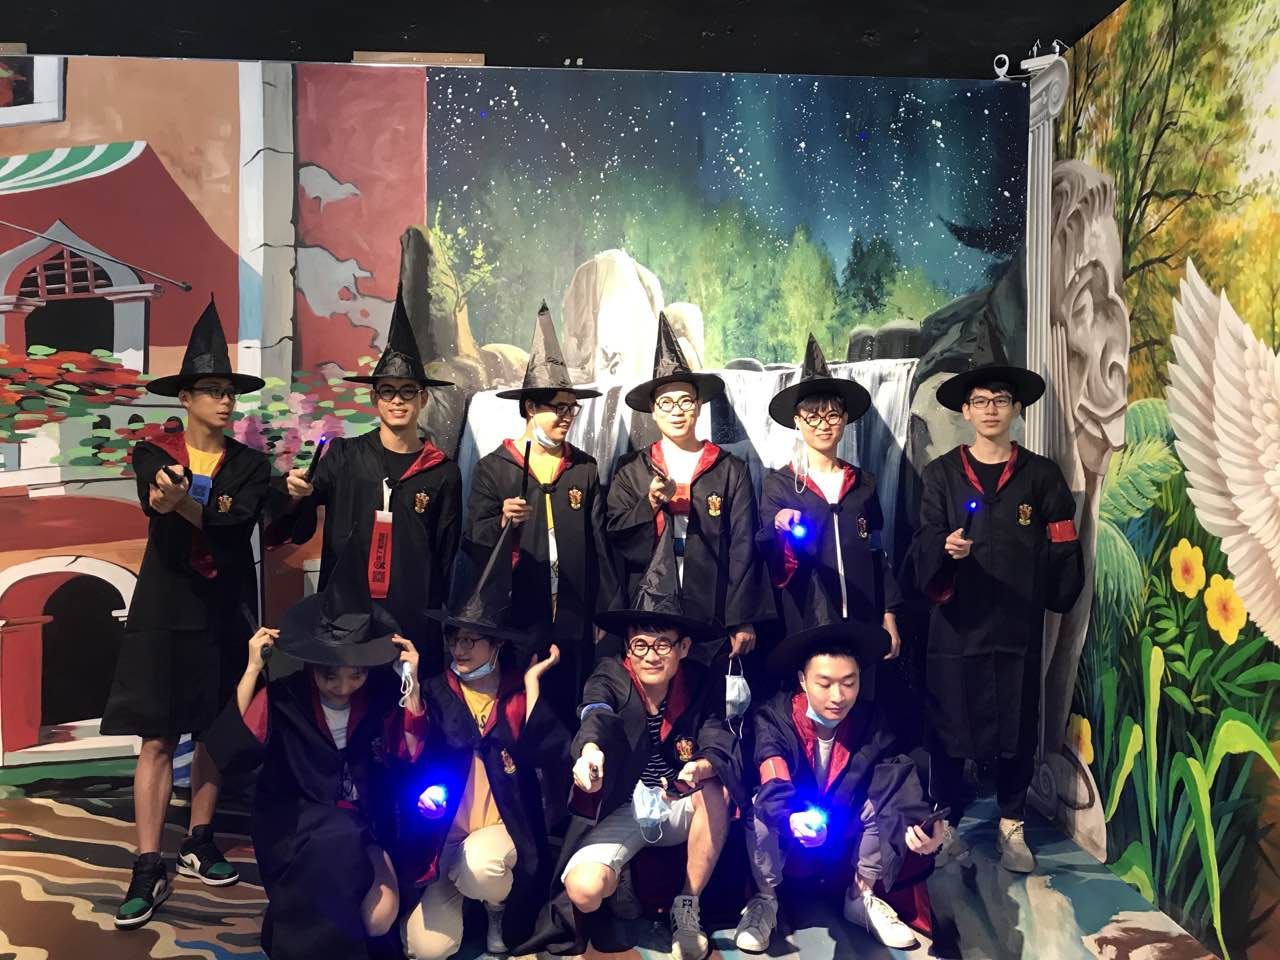
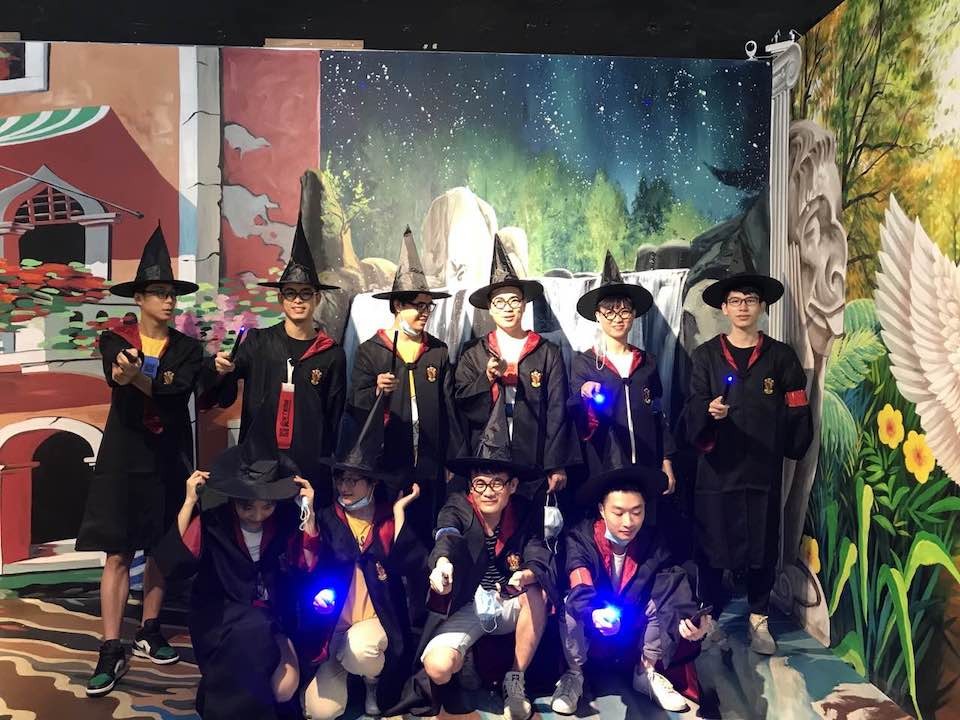
更新关于我们

diff --git a/docs/about.md b/docs/about.md
@@ -20,10 +20,96 @@ showAuthor: false
 
 ## 团队
 
-```
-我们是筷子前端团队
+### 我们的产品 -> 创意资产管理&决策优化平台
 
-```
+* [详细介绍筷子官网](https://superme.kuaizi.co/zh/pc/)
+
+### 现有产品介绍（基本上是PC端）
+
+#### 工具类产品
+
+* 图像在线编辑
+* 视频在线编辑
+* 落地页在线编辑
+
+> 需要技能不限于：单页性能优化、psd如何在线解析、canvas组件绘制、前端组件化、视频流相关知识、webassembly、FFmpeg等
+
+#### 平台对接类
+* 电商流量平台对接（如广点通、巨量、阿里妈妈三驾马车、京东等巨头平台）
+* 私域流量平台对接（抖音、微博等）
+* 其他开放平台对接（OPENAPI）
+
+> 需要技能不限于：前端并发处理、模板化开发、OPENAPI、广告知识
+
+#### 数据展示类
+* 创意数据展示
+* 内外用户数据
+* 创意标签管理
+
+> 需要技能不限于：前端数据监控埋点、复杂前端form组件、canvas数据可视化、数据加载性能
+
+
+### 团队规模
+#### 发展史
+2013年成立前端团队，2017年筷子前端团队规模在最多达到12人，后随着业务分拆，独立了子公司降到当前6个人左右的团队，今年我们在业界都在考虑生存问题的时候拿到了A+轮融资、同时我们也已经开始全新SaaS工具产品的设计和开发、预计接下来的团队规模扩大到10个人左右 急需各位江湖贤士加盟
+
+#### 团队规模
+> 当前规模
+
+p6(1) p5（1个）、p4(2)
+
+> 计划规模
+
+主要布局p7(1个)、p6（1个）、p5(2)、p4(4个)
+
+#### 前端 JD
+##### 工作职责
+• 准确理解产品需求、交互文档或原型，进行web产品前端开发。
+• 与产品团队充分沟通，快速理解、消化各方需求，并落实为具体的开发工作。
+• 负责制定 Web 开发规范，开发风格一致的 Web 模板和组件。 
+• 技术视野广阔，有主导前端技术方案设计的能力和经验，能够主导大型项目研发； 
+• 关注业界前端技术，对用户体验、交互操作流程有一定理解。
+职位要求
+• 计算机相关专业本科及以上学历， 3年及以上前端开发工作经验（优秀者不限）。 
+• 熟悉W3C标准，精通HTML5/CSS3。 
+• 熟悉JavaScript的核心技术，包括并不限于es6、ajax、dom、bom等。 
+• 熟悉常见页面布局方式，移动端响应式页面布局方式，熟悉css性能优化方式。 
+• 掌握面向对象编程思想，对表现与数据分离有深刻理解，熟练使用 React / Angular / Vue 中的至少一种。 
+• 熟悉Nodejs，能利用Nodejs开发工具，掌握常用的构建打包工具，如gulp、webpack、rollup等。 
+• 有前端性能优化经验，包括语言层面和架构层面； 
+• 熟练使用各种调试、抓包工具，能独立分析、解决和归纳问题。 
+• 热爱技术研发工作，有良好的工作责任感和团队合作能力。
+加分项
+• 熟悉任意一门服务端语言 如Java、PHP、Python等； 
+• 参与开源项目 or 对开源社区有贡献。 
+• 有 TypeScript 研发经验。 
+• 有持续集成，前端部署的经验，有前端工程化能力。
+
+### 团队技术栈
+1、前端主要是Vue(原始+ts)、小部分React
+2、gitlab+jenkin 持续集成
+3、后端主要是PHP、小部分Java+go、nodejs
+
+
+### 晋升路线
+技术线：初级前端工程师-->中级前端工程师-->高级前端工程师——前端专家
+管理线：初级前端工程师-->中级前端工程师-->高级前端工程师——前端经理——前端总监
+
+### 筷子的福利
+企业类教育账号学习（年费式，供大家再业务之余可以学习和提升个人技能）
+每周团队内外部分享
+行业大会参加可报销
+
+完备的保障体系——五险一金，保驾护航。
+完善的培养制度——专业课程+内部讲师+拓展体验……学习机会多多，年轻的你不容错过！
+完全的成长通道——薪酬宽带体系，内部提升机制，科学的晋升发展通道，诸多的锻炼机会，是金子，你就可以发出夺目的光彩！
+完美的度假节奏——带薪年假、病假，法定婚假、产假。
+下午茶零食趴、节假日大礼包、周年豪奖、生日惊喜……还有更贴心的吗？
+
+### 团队图片墙
+![avatar](/blog/images/tj-1.jpg = 960 * 720)
+![avatar](/blog/images/tj-2.jpg = 960 * 720)
+
 
 
 ## 愿景

diff --git a/docs/post/about-us.md b/docs/post/about-us.md
@@ -15,8 +15,8 @@ meta:
     -
       name: keywords
       content: front-end, construction
-author: tomieric
-poster: https://mmbiz.qpic.cn/mmbiz_png/ZejZic1KdpOK9HXcic7g1qbGwiaMsWPnczPlvwb4qdcd2WwoX1h1qibTibS9kfajfjonPq6L3WYwEIGfzqSdhmlXMEg/640?wx_fmt=png&tp=webp&wxfrom=5&wx_lazy=1&wx_co=1
+author: spademan
+poster: /images/tuandui-1.png
 ---
 
 # 我们的产品
@@ -108,5 +108,5 @@ p6(1) p5（1个）、p4(2)
 下午茶零食趴、节假日大礼包、周年豪奖、生日惊喜……还有更贴心的吗？
 
 ### 团队图片墙
-![avatar](/blog/images/tj-1.jpg)
-![avatar](/blog/images/tj-2.jpg)
+![avatar](/blog/images/tj-1.jpg = 960 * 720)
+![avatar](/blog/images/tj-2.jpg = 960 * 720)
